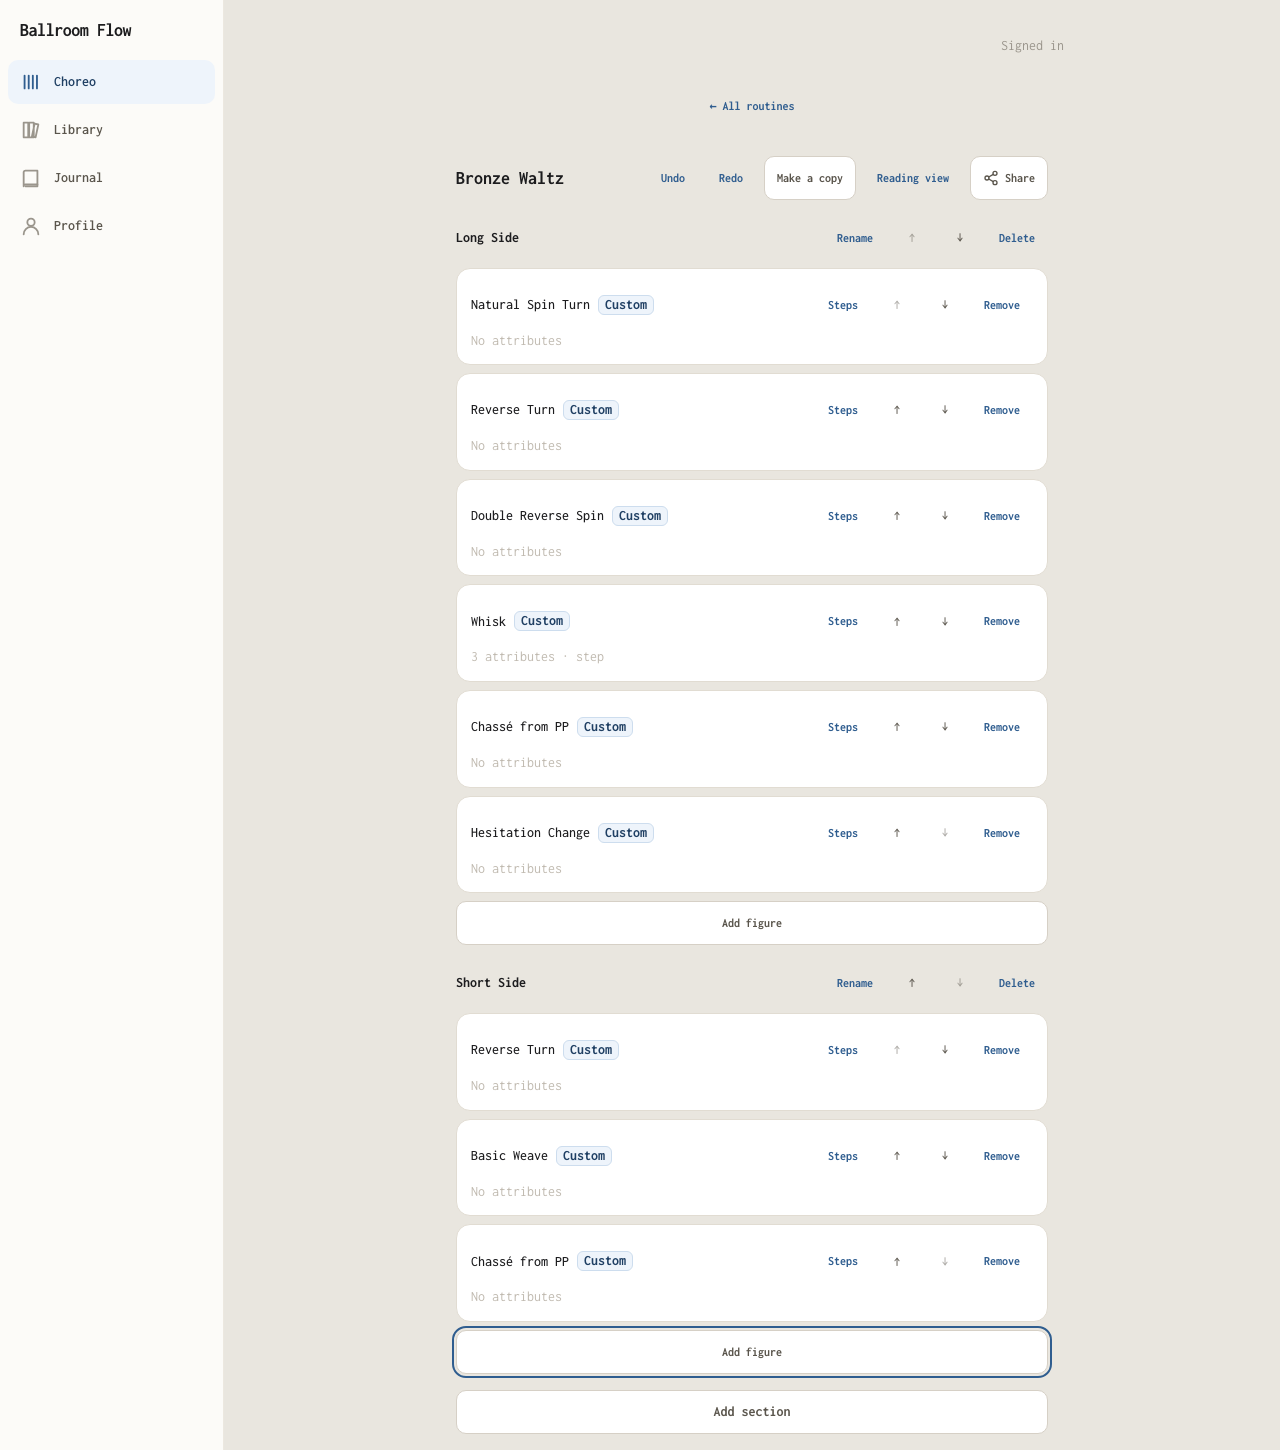
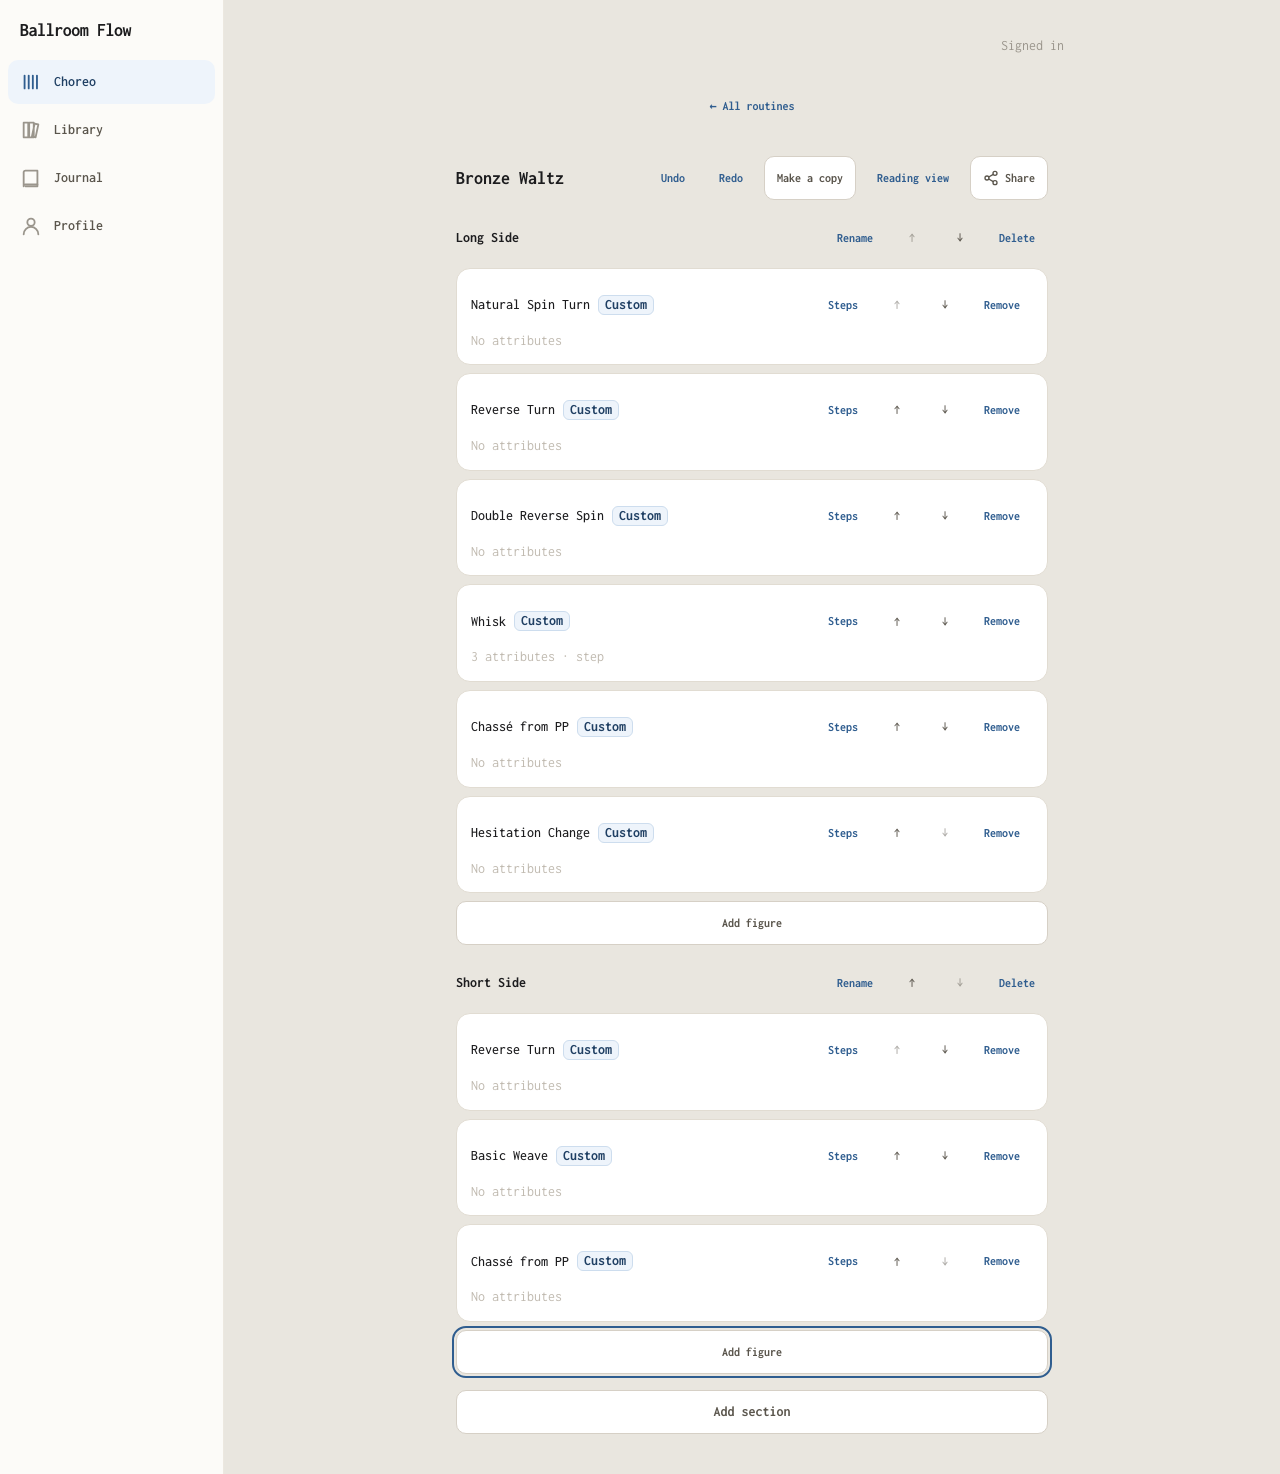
test(screenshots): fix create-modal assertion + distinct hero.png
Fix 1: guard create.png with `expect(dialog "New routine").toBeVisible()`
before the screenshot so flaky timing can't produce a shot of a closed sheet.

Fix 2: hero.png is now the ASSEMBLE editor overview (viewport, no fullPage)
captured after both Long+Short sections are built, matching its caption
"Your whole routine, figure by figure". sections.png stays fullPage assemble;
reading.png stays the reading-view. All three PNGs are now visually distinct.

diff --git a/apps/web/e2e/screenshots.spec.ts b/apps/web/e2e/screenshots.spec.ts
@@ -45,6 +45,7 @@ test.describe("@screenshots landing imagery", () => {
     await page.getByRole("button", { name: /new choreo/i }).click();
     await page.getByLabel("Routine name").fill("Bronze Waltz");
     await page.getByLabel("Dance").selectOption("waltz");
+    await expect(page.getByRole("dialog", { name: "New routine" })).toBeVisible();
     await page.screenshot({ path: shot("create.png") });
     await page.getByRole("button", { name: "Create" }).click();
 
@@ -71,6 +72,13 @@ test.describe("@screenshots landing imagery", () => {
         await expect(page.getByText(figure).first()).toBeVisible({ timeout: 15_000 });
       }
     }
+    // Hero: ASSEMBLE editor overview — "Your whole routine, figure by figure."
+    // Captured at default viewport (punchy top-of-routine shot, not fullPage).
+    await expect(page.getByRole("heading", { name: "Long Side" })).toBeVisible();
+    await expect(page.getByText("Natural Spin Turn").first()).toBeVisible();
+    await page.screenshot({ path: shot("hero.png") });
+
+    // Full-page assemble view showing both Long + Short sections.
     await page.screenshot({ path: shot("sections.png"), fullPage: true });
 
     // 3. Notate the Natural Spin Turn across technique dimensions.
@@ -93,10 +101,9 @@ test.describe("@screenshots landing imagery", () => {
     // Close the notation sheet before navigating to reading view.
     await page.keyboard.press("Escape");
 
-    // 5. Reading view (read-only share surface) → also the hero image.
+    // 5. Reading view (read-only share surface).
     await page.getByRole("button", { name: /reading view/i }).click();
     await expect(page.getByTestId("reading-view")).toBeVisible({ timeout: 15_000 });
     await page.screenshot({ path: shot("reading.png"), fullPage: true });
-    await page.screenshot({ path: shot("hero.png"), fullPage: true });
   });
 });